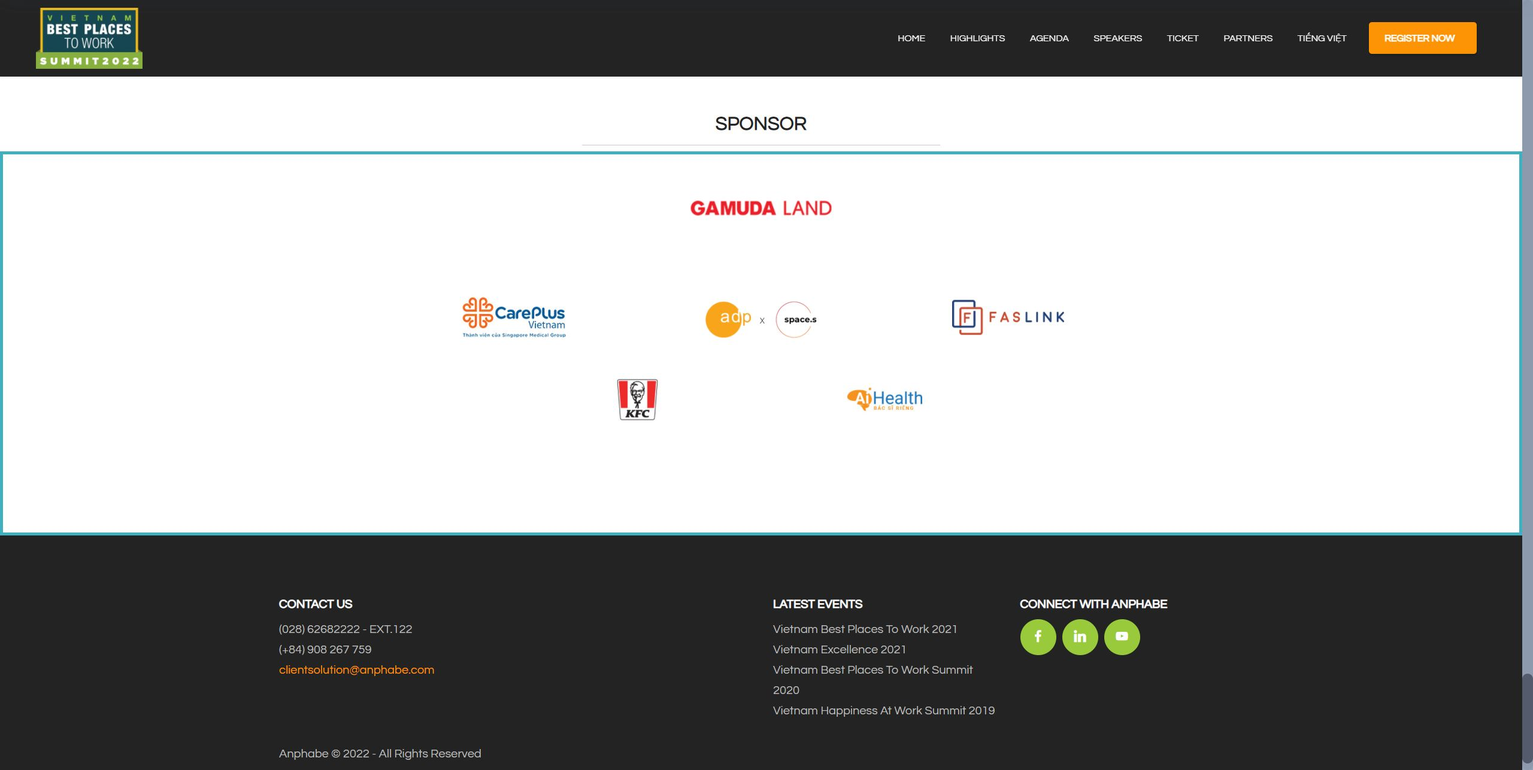
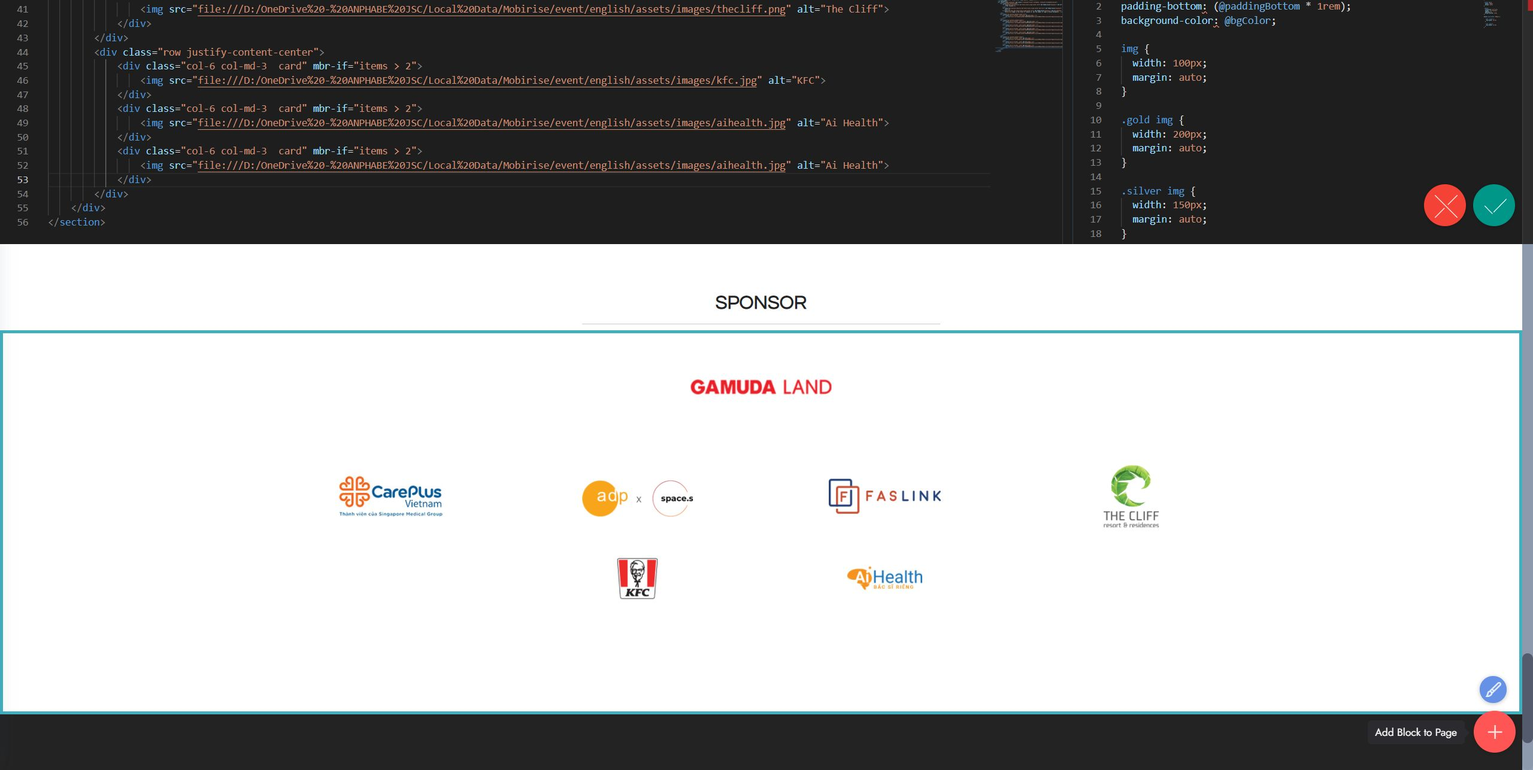
update

diff --git a/english/index.html b/english/index.html
@@ -648,8 +648,8 @@ height="0" width="0" style="display:none;visibility:hidden"></iframe></noscript>
     <div class="container">        
         <div class="row mbr-gallery">
             <div class="col-12 col-md-3 col-lg-3 item gallery-image">
-                <div class="item-wrapper" data-toggle="modal" data-bs-toggle="modal" data-target="#tkweUiA7Xq-modal" data-bs-target="#tkweUiA7Xq-modal">
-                    <img class="w-100" src="assets/images/thanh-nguyen.jpg" alt="Bà Thanh Nguyễn" data-slide-to="0" data-bs-slide-to="0" data-target="#lb-tkweUiA7Xq" data-bs-target="#lb-tkweUiA7Xq">
+                <div class="item-wrapper" data-toggle="modal" data-bs-toggle="modal" data-target="#tkwfBymfpB-modal" data-bs-target="#tkwfBymfpB-modal">
+                    <img class="w-100" src="assets/images/thanh-nguyen.jpg" alt="Bà Thanh Nguyễn" data-slide-to="0" data-bs-slide-to="0" data-target="#lb-tkwfBymfpB" data-bs-target="#lb-tkwfBymfpB">
                     <div class="icon-wrapper">
                         <span class="mobi-mbri mobi-mbri-search mbr-iconfont mbr-iconfont-btn"></span>
                     </div>
@@ -663,8 +663,8 @@ height="0" width="0" style="display:none;visibility:hidden"></iframe></noscript>
                 </div>
             </div>
             <div class="col-12 col-md-3 col-lg-3 item gallery-image">
-                <div class="item-wrapper" data-toggle="modal" data-bs-toggle="modal" data-target="#tkweUiA7Xq-modal" data-bs-target="#tkweUiA7Xq-modal">
-                    <img class="w-100" src="assets/images/alan.jpg" alt="Ông Alain Goudsmet" data-slide-to="1" data-bs-slide-to="1" data-target="#lb-tkweUiA7Xq" data-bs-target="#lb-tkweUiA7Xq">
+                <div class="item-wrapper" data-toggle="modal" data-bs-toggle="modal" data-target="#tkwfBymfpB-modal" data-bs-target="#tkwfBymfpB-modal">
+                    <img class="w-100" src="assets/images/alan.jpg" alt="Ông Alain Goudsmet" data-slide-to="1" data-bs-slide-to="1" data-target="#lb-tkwfBymfpB" data-bs-target="#lb-tkwfBymfpB">
                     <div class="icon-wrapper">
                         <span class="mobi-mbri mobi-mbri-search mbr-iconfont mbr-iconfont-btn"></span>
                     </div>
@@ -681,8 +681,8 @@ height="0" width="0" style="display:none;visibility:hidden"></iframe></noscript>
                 </div>
             </div>            
             <div class="col-12 col-md-3 col-lg-3 item gallery-image">
-                <div class="item-wrapper" data-toggle="modal" data-bs-toggle="modal" data-target="#tkweUiA7Xq-modal" data-bs-target="#tkweUiA7Xq-modal">
-                    <img class="w-100" src="assets/images/irais-thumb.jpg" alt="Bà Irais Browaeys " data-slide-to="2" data-bs-slide-to="2" data-target="#lb-tkweUiA7Xq" data-bs-target="#lb-tkweUiA7Xq">
+                <div class="item-wrapper" data-toggle="modal" data-bs-toggle="modal" data-target="#tkwfBymfpB-modal" data-bs-target="#tkwfBymfpB-modal">
+                    <img class="w-100" src="assets/images/irais-thumb.jpg" alt="Bà Irais Browaeys " data-slide-to="2" data-bs-slide-to="2" data-target="#lb-tkwfBymfpB" data-bs-target="#lb-tkwfBymfpB">
                     <div class="icon-wrapper">
                         <span class="mobi-mbri mobi-mbri-search mbr-iconfont mbr-iconfont-btn"></span>
                     </div>
@@ -699,8 +699,8 @@ height="0" width="0" style="display:none;visibility:hidden"></iframe></noscript>
                 </div>
             </div>
             <div class="col-12 col-md-3 col-lg-3 item gallery-image">
-                <div class="item-wrapper" data-toggle="modal" data-bs-toggle="modal" data-target="#tkweUiA7Xq-modal" data-bs-target="#tkweUiA7Xq-modal">
-                    <img class="w-100" src="assets/images/vanluu-thumb.jpg" alt="Bà Lưu Bảo Vân " data-slide-to="3" data-bs-slide-to="3" data-target="#lb-tkweUiA7Xq" data-bs-target="#lb-tkweUiA7Xq">
+                <div class="item-wrapper" data-toggle="modal" data-bs-toggle="modal" data-target="#tkwfBymfpB-modal" data-bs-target="#tkwfBymfpB-modal">
+                    <img class="w-100" src="assets/images/vanluu-thumb.jpg" alt="Bà Lưu Bảo Vân " data-slide-to="3" data-bs-slide-to="3" data-target="#lb-tkwfBymfpB" data-bs-target="#lb-tkwfBymfpB">
                     <div class="icon-wrapper">
                         <span class="mobi-mbri mobi-mbri-search mbr-iconfont mbr-iconfont-btn"></span>
                     </div>
@@ -713,8 +713,8 @@ height="0" width="0" style="display:none;visibility:hidden"></iframe></noscript>
                 </div>
             </div>
             <div class="col-12 col-md-3 col-lg-3 item gallery-image">
-                <div class="item-wrapper" data-toggle="modal" data-bs-toggle="modal" data-target="#tkweUiA7Xq-modal" data-bs-target="#tkweUiA7Xq-modal">
-                    <img class="w-100" src="assets/images/nhanguyen-thumb.jpg" alt="Bà Lưu Bảo Vân " data-slide-to="4" data-bs-slide-to="4" data-target="#lb-tkweUiA7Xq" data-bs-target="#lb-tkweUiA7Xq">
+                <div class="item-wrapper" data-toggle="modal" data-bs-toggle="modal" data-target="#tkwfBymfpB-modal" data-bs-target="#tkwfBymfpB-modal">
+                    <img class="w-100" src="assets/images/nhanguyen-thumb.jpg" alt="Bà Lưu Bảo Vân " data-slide-to="4" data-bs-slide-to="4" data-target="#lb-tkwfBymfpB" data-bs-target="#lb-tkwfBymfpB">
                     <div class="icon-wrapper">
                         <span class="mobi-mbri mobi-mbri-search mbr-iconfont mbr-iconfont-btn"></span>
                     </div>
@@ -726,8 +726,8 @@ height="0" width="0" style="display:none;visibility:hidden"></iframe></noscript>
                 </div>
             </div>
             <div class="col-12 col-md-3 col-lg-3 item gallery-image">
-                <div class="item-wrapper" data-toggle="modal" data-bs-toggle="modal" data-target="#tkweUiA7Xq-modal" data-bs-target="#tkweUiA7Xq-modal">
-                    <img class="w-100" src="assets/images/myhanh-thumb.jpg" alt="Lương Thị Mỹ Hạnh" data-slide-to="5" data-bs-slide-to="5" data-target="#lb-tkweUiA7Xq" data-bs-target="#lb-tkweUiA7Xq">
+                <div class="item-wrapper" data-toggle="modal" data-bs-toggle="modal" data-target="#tkwfBymfpB-modal" data-bs-target="#tkwfBymfpB-modal">
+                    <img class="w-100" src="assets/images/myhanh-thumb.jpg" alt="Lương Thị Mỹ Hạnh" data-slide-to="5" data-bs-slide-to="5" data-target="#lb-tkwfBymfpB" data-bs-target="#lb-tkwfBymfpB">
                     <div class="icon-wrapper">
                         <span class="mobi-mbri mobi-mbri-search mbr-iconfont mbr-iconfont-btn"></span>
                     </div>
@@ -740,11 +740,11 @@ height="0" width="0" style="display:none;visibility:hidden"></iframe></noscript>
             </div>            
         </div>
 
-        <div class="modal mbr-slider" tabindex="-1" role="dialog" aria-hidden="true" id="tkweUiA7Xq-modal">
+        <div class="modal mbr-slider" tabindex="-1" role="dialog" aria-hidden="true" id="tkwfBymfpB-modal">
             <div class="modal-dialog" role="document">
                 <div class="modal-content">
                     <div class="modal-body">
-                        <div class="carousel slide" id="lb-tkweUiA7Xq" data-interval="5000" data-bs-interval="5000">
+                        <div class="carousel slide" id="lb-tkwfBymfpB" data-interval="5000" data-bs-interval="5000">
                             <div class="carousel-inner">
                                 <div class="carousel-item active">
                                     <div class="row">
@@ -864,20 +864,20 @@ height="0" width="0" style="display:none;visibility:hidden"></iframe></noscript>
                             </div>
 
                             <ol class="carousel-indicators">
-                                <li data-slide-to="0" data-bs-slide-to="0" class="active" data-target="#lb-tkweUiA7Xq" data-bs-target="#lb-tkweUiA7Xq"></li>
-                                <li data-slide-to="1" data-bs-slide-to="1" data-target="#lb-tkweUiA7Xq" data-bs-target="#lb-tkweUiA7Xq"></li>
-                                <li data-slide-to="2" data-bs-slide-to="2" data-target="#lb-tkweUiA7Xq" data-bs-target="#lb-tkweUiA7Xq"></li>
-                                <li data-slide-to="3" data-bs-slide-to="3" data-target="#lb-tkweUiA7Xq" data-bs-target="#lb-tkweUiA7Xq"></li>
-                                <li data-slide-to="4" data-bs-slide-to="4" data-target="#lb-tkweUiA7Xq" data-bs-target="#lb-tkweUiA7Xq"></li>
-                                <li data-slide-to="5" data-bs-slide-to="5" data-target="#lb-tkweUiA7Xq" data-bs-target="#lb-tkweUiA7Xq"></li>
+                                <li data-slide-to="0" data-bs-slide-to="0" class="active" data-target="#lb-tkwfBymfpB" data-bs-target="#lb-tkwfBymfpB"></li>
+                                <li data-slide-to="1" data-bs-slide-to="1" data-target="#lb-tkwfBymfpB" data-bs-target="#lb-tkwfBymfpB"></li>
+                                <li data-slide-to="2" data-bs-slide-to="2" data-target="#lb-tkwfBymfpB" data-bs-target="#lb-tkwfBymfpB"></li>
+                                <li data-slide-to="3" data-bs-slide-to="3" data-target="#lb-tkwfBymfpB" data-bs-target="#lb-tkwfBymfpB"></li>
+                                <li data-slide-to="4" data-bs-slide-to="4" data-target="#lb-tkwfBymfpB" data-bs-target="#lb-tkwfBymfpB"></li>
+                                <li data-slide-to="5" data-bs-slide-to="5" data-target="#lb-tkwfBymfpB" data-bs-target="#lb-tkwfBymfpB"></li>
                             </ol>
                             <a role="button" href="" class="close" data-dismiss="modal" data-bs-dismiss="modal" aria-label="Close">
                             </a>
-                            <a class="carousel-control-prev carousel-control" role="button" data-slide="prev" data-bs-slide="prev" href="#lb-tkweUiA7Xq">
+                            <a class="carousel-control-prev carousel-control" role="button" data-slide="prev" data-bs-slide="prev" href="#lb-tkwfBymfpB">
                                 <span class="mobi-mbri mobi-mbri-arrow-prev" aria-hidden="true"></span>
                                 <span class="sr-only visually-hidden">Previous</span>
                             </a>
-                            <a class="carousel-control-next carousel-control" role="button" data-slide="next" data-bs-slide="next" href="#lb-tkweUiA7Xq">
+                            <a class="carousel-control-next carousel-control" role="button" data-slide="next" data-bs-slide="next" href="#lb-tkwfBymfpB">
                                 <span class="mobi-mbri mobi-mbri-arrow-next" aria-hidden="true"></span>
                                 <span class="sr-only visually-hidden">Next</span>
                             </a>
@@ -1127,6 +1127,9 @@ height="0" width="0" style="display:none;visibility:hidden"></iframe></noscript>
             </div> 
             <div class="col-6 col-md-3  card">
                 <img src="assets/images/aihealth.jpg" alt="Ai Health">
+            </div>
+            <div class="col-6 col-md-3  card">
+                <img src="assets/images/quaviet.png" alt="Quà Việt">
             </div>            
         </div>
     </div>

diff --git a/index.html b/index.html
@@ -694,8 +694,8 @@ height="0" width="0" style="display:none;visibility:hidden"></iframe></noscript>
     <div class="container">        
         <div class="row mbr-gallery">
             <div class="col-12 col-md-3 col-lg-3 item gallery-image">
-                <div class="item-wrapper" data-toggle="modal" data-bs-toggle="modal" data-target="#tkweHCuxd2-modal" data-bs-target="#tkweHCuxd2-modal">
-                    <img class="w-100" src="assets/images/thanh-nguyen.jpg" alt="Bà Thanh Nguyễn" data-slide-to="0" data-bs-slide-to="0" data-target="#lb-tkweHCuxd2" data-bs-target="#lb-tkweHCuxd2">
+                <div class="item-wrapper" data-toggle="modal" data-bs-toggle="modal" data-target="#tkwfNifBFp-modal" data-bs-target="#tkwfNifBFp-modal">
+                    <img class="w-100" src="assets/images/thanh-nguyen.jpg" alt="Bà Thanh Nguyễn" data-slide-to="0" data-bs-slide-to="0" data-target="#lb-tkwfNifBFp" data-bs-target="#lb-tkwfNifBFp">
                     <div class="icon-wrapper">
                         <span class="mobi-mbri mobi-mbri-search mbr-iconfont mbr-iconfont-btn"></span>
                     </div>
@@ -710,8 +710,8 @@ height="0" width="0" style="display:none;visibility:hidden"></iframe></noscript>
                 </div>
             </div>
             <div class="col-12 col-md-3 col-lg-3 item gallery-image">
-                <div class="item-wrapper" data-toggle="modal" data-bs-toggle="modal" data-target="#tkweHCuxd2-modal" data-bs-target="#tkweHCuxd2-modal">
-                    <img class="w-100" src="assets/images/alan.jpg" alt="Ông Alain Goudsmet" data-slide-to="1" data-bs-slide-to="1" data-target="#lb-tkweHCuxd2" data-bs-target="#lb-tkweHCuxd2">
+                <div class="item-wrapper" data-toggle="modal" data-bs-toggle="modal" data-target="#tkwfNifBFp-modal" data-bs-target="#tkwfNifBFp-modal">
+                    <img class="w-100" src="assets/images/alan.jpg" alt="Ông Alain Goudsmet" data-slide-to="1" data-bs-slide-to="1" data-target="#lb-tkwfNifBFp" data-bs-target="#lb-tkwfNifBFp">
                     <div class="icon-wrapper">
                         <span class="mobi-mbri mobi-mbri-search mbr-iconfont mbr-iconfont-btn"></span>
                     </div>
@@ -729,8 +729,8 @@ height="0" width="0" style="display:none;visibility:hidden"></iframe></noscript>
                 </div>
             </div>            
             <div class="col-12 col-md-3 col-lg-3 item gallery-image">
-                <div class="item-wrapper" data-toggle="modal" data-bs-toggle="modal" data-target="#tkweHCuxd2-modal" data-bs-target="#tkweHCuxd2-modal">
-                    <img class="w-100" src="assets/images/irais-thumb.jpg" alt="Bà Irais Browaeys " data-slide-to="2" data-bs-slide-to="2" data-target="#lb-tkweHCuxd2" data-bs-target="#lb-tkweHCuxd2">
+                <div class="item-wrapper" data-toggle="modal" data-bs-toggle="modal" data-target="#tkwfNifBFp-modal" data-bs-target="#tkwfNifBFp-modal">
+                    <img class="w-100" src="assets/images/irais-thumb.jpg" alt="Bà Irais Browaeys " data-slide-to="2" data-bs-slide-to="2" data-target="#lb-tkwfNifBFp" data-bs-target="#lb-tkwfNifBFp">
                     <div class="icon-wrapper">
                         <span class="mobi-mbri mobi-mbri-search mbr-iconfont mbr-iconfont-btn"></span>
                     </div>
@@ -748,8 +748,8 @@ height="0" width="0" style="display:none;visibility:hidden"></iframe></noscript>
                 </div>
             </div>
             <div class="col-12 col-md-3 col-lg-3 item gallery-image">
-                <div class="item-wrapper" data-toggle="modal" data-bs-toggle="modal" data-target="#tkweHCuxd2-modal" data-bs-target="#tkweHCuxd2-modal">
-                    <img class="w-100" src="assets/images/vanluu-thumb.jpg" alt="Bà Lưu Bảo Vân " data-slide-to="3" data-bs-slide-to="3" data-target="#lb-tkweHCuxd2" data-bs-target="#lb-tkweHCuxd2">
+                <div class="item-wrapper" data-toggle="modal" data-bs-toggle="modal" data-target="#tkwfNifBFp-modal" data-bs-target="#tkwfNifBFp-modal">
+                    <img class="w-100" src="assets/images/vanluu-thumb.jpg" alt="Bà Lưu Bảo Vân " data-slide-to="3" data-bs-slide-to="3" data-target="#lb-tkwfNifBFp" data-bs-target="#lb-tkwfNifBFp">
                     <div class="icon-wrapper">
                         <span class="mobi-mbri mobi-mbri-search mbr-iconfont mbr-iconfont-btn"></span>
                     </div>
@@ -764,8 +764,8 @@ height="0" width="0" style="display:none;visibility:hidden"></iframe></noscript>
                 </div>
             </div>
             <div class="col-12 col-md-3 col-lg-3 item gallery-image">
-                <div class="item-wrapper" data-toggle="modal" data-bs-toggle="modal" data-target="#tkweHCuxd2-modal" data-bs-target="#tkweHCuxd2-modal">
-                    <img class="w-100" src="assets/images/nhanguyen-thumb.jpg" alt="Bà Lưu Bảo Vân " data-slide-to="4" data-bs-slide-to="4" data-target="#lb-tkweHCuxd2" data-bs-target="#lb-tkweHCuxd2">
+                <div class="item-wrapper" data-toggle="modal" data-bs-toggle="modal" data-target="#tkwfNifBFp-modal" data-bs-target="#tkwfNifBFp-modal">
+                    <img class="w-100" src="assets/images/nhanguyen-thumb.jpg" alt="Bà Lưu Bảo Vân " data-slide-to="4" data-bs-slide-to="4" data-target="#lb-tkwfNifBFp" data-bs-target="#lb-tkwfNifBFp">
                     <div class="icon-wrapper">
                         <span class="mobi-mbri mobi-mbri-search mbr-iconfont mbr-iconfont-btn"></span>
                     </div>
@@ -777,8 +777,8 @@ height="0" width="0" style="display:none;visibility:hidden"></iframe></noscript>
                 </div>
             </div>
             <div class="col-12 col-md-3 col-lg-3 item gallery-image">
-                <div class="item-wrapper" data-toggle="modal" data-bs-toggle="modal" data-target="#tkweHCuxd2-modal" data-bs-target="#tkweHCuxd2-modal">
-                    <img class="w-100" src="assets/images/myhanh-thumb.jpg" alt="Lương Thị Mỹ Hạnh" data-slide-to="5" data-bs-slide-to="5" data-target="#lb-tkweHCuxd2" data-bs-target="#lb-tkweHCuxd2">
+                <div class="item-wrapper" data-toggle="modal" data-bs-toggle="modal" data-target="#tkwfNifBFp-modal" data-bs-target="#tkwfNifBFp-modal">
+                    <img class="w-100" src="assets/images/myhanh-thumb.jpg" alt="Lương Thị Mỹ Hạnh" data-slide-to="5" data-bs-slide-to="5" data-target="#lb-tkwfNifBFp" data-bs-target="#lb-tkwfNifBFp">
                     <div class="icon-wrapper">
                         <span class="mobi-mbri mobi-mbri-search mbr-iconfont mbr-iconfont-btn"></span>
                     </div>
@@ -792,11 +792,11 @@ height="0" width="0" style="display:none;visibility:hidden"></iframe></noscript>
             
         </div>
 
-        <div class="modal mbr-slider" tabindex="-1" role="dialog" aria-hidden="true" id="tkweHCuxd2-modal">
+        <div class="modal mbr-slider" tabindex="-1" role="dialog" aria-hidden="true" id="tkwfNifBFp-modal">
             <div class="modal-dialog" role="document">
                 <div class="modal-content">
                     <div class="modal-body">
-                        <div class="carousel slide" id="lb-tkweHCuxd2" data-interval="5000" data-bs-interval="5000">
+                        <div class="carousel slide" id="lb-tkwfNifBFp" data-interval="5000" data-bs-interval="5000">
                             <div class="carousel-inner">
                                 <div class="carousel-item active">
                                     <div class="row">
@@ -921,20 +921,20 @@ height="0" width="0" style="display:none;visibility:hidden"></iframe></noscript>
                             </div>
 
                             <ol class="carousel-indicators">
-                                <li data-slide-to="0" data-bs-slide-to="0" class="active" data-target="#lb-tkweHCuxd2" data-bs-target="#lb-tkweHCuxd2"></li>
-                                <li data-slide-to="1" data-bs-slide-to="1" data-target="#lb-tkweHCuxd2" data-bs-target="#lb-tkweHCuxd2"></li>
-                                <li data-slide-to="2" data-bs-slide-to="2" data-target="#lb-tkweHCuxd2" data-bs-target="#lb-tkweHCuxd2"></li>
-                                <li data-slide-to="3" data-bs-slide-to="3" data-target="#lb-tkweHCuxd2" data-bs-target="#lb-tkweHCuxd2"></li>
-                                <li data-slide-to="4" data-bs-slide-to="4" data-target="#lb-tkweHCuxd2" data-bs-target="#lb-tkweHCuxd2"></li>
-                                <li data-slide-to="5" data-bs-slide-to="5" data-target="#lb-tkweHCuxd2" data-bs-target="#lb-tkweHCuxd2"></li>
+                                <li data-slide-to="0" data-bs-slide-to="0" class="active" data-target="#lb-tkwfNifBFp" data-bs-target="#lb-tkwfNifBFp"></li>
+                                <li data-slide-to="1" data-bs-slide-to="1" data-target="#lb-tkwfNifBFp" data-bs-target="#lb-tkwfNifBFp"></li>
+                                <li data-slide-to="2" data-bs-slide-to="2" data-target="#lb-tkwfNifBFp" data-bs-target="#lb-tkwfNifBFp"></li>
+                                <li data-slide-to="3" data-bs-slide-to="3" data-target="#lb-tkwfNifBFp" data-bs-target="#lb-tkwfNifBFp"></li>
+                                <li data-slide-to="4" data-bs-slide-to="4" data-target="#lb-tkwfNifBFp" data-bs-target="#lb-tkwfNifBFp"></li>
+                                <li data-slide-to="5" data-bs-slide-to="5" data-target="#lb-tkwfNifBFp" data-bs-target="#lb-tkwfNifBFp"></li>
                             </ol>
                             <a role="button" href="" class="close" data-dismiss="modal" data-bs-dismiss="modal" aria-label="Close">
                             </a>
-                            <a class="carousel-control-prev carousel-control" role="button" data-slide="prev" data-bs-slide="prev" href="#lb-tkweHCuxd2">
+                            <a class="carousel-control-prev carousel-control" role="button" data-slide="prev" data-bs-slide="prev" href="#lb-tkwfNifBFp">
                                 <span class="mobi-mbri mobi-mbri-arrow-prev" aria-hidden="true"></span>
                                 <span class="sr-only visually-hidden">Previous</span>
                             </a>
-                            <a class="carousel-control-next carousel-control" role="button" data-slide="next" data-bs-slide="next" href="#lb-tkweHCuxd2">
+                            <a class="carousel-control-next carousel-control" role="button" data-slide="next" data-bs-slide="next" href="#lb-tkwfNifBFp">
                                 <span class="mobi-mbri mobi-mbri-arrow-next" aria-hidden="true"></span>
                                 <span class="sr-only visually-hidden">Next</span>
                             </a>
@@ -1184,6 +1184,9 @@ height="0" width="0" style="display:none;visibility:hidden"></iframe></noscript>
             </div> 
             <div class="col-6 col-md-3  card">
                 <img src="assets/images/aihealth.jpg" alt="Ai Health">
+            </div>
+            <div class="col-6 col-md-3  card">
+                <img src="assets/images/quaviet.png" alt="Quà Việt">
             </div>            
         </div>
     </div>

diff --git a/english/assets/theme/js/script.js b/english/assets/theme/js/script.js
@@ -58,4 +58,4 @@ f)});d.forEach(function(a){a.removeEventListener("click",f)});u&&h(a).carousel({
 h(this).styler()}),h(a).find("input[type=number]").each(function(){h(this).styler&&(h(this).styler(),h(this).parent().parent().removeClass("form-control"))}),h(a).find("input[type=date]").each(function(){h(this).datetimepicker&&h(this).datetimepicker({format:"Y-m-d",timepicker:!1})}),h(a).find("input[type=time]").each(function(){h(this).datetimepicker&&h(this).datetimepicker({format:"H:i",datepicker:!1})}))})}document.querySelectorAll('input[type="range"]').forEach(function(a){a.addEventListener("change",
 function(a){a.target.parents(".form-group").forEach(function(b){b.querySelector(".value").innerHTML=a.target.value})})});if(p)h(document).on("add.cards changeParameter.cards",function(a,b){"undefined"!==typeof CircularProgressBar&&new CircularProgressBar("pie_progress");b?H(a.target,b):a.target.querySelectorAll(".pie_progress").length&&a.target.querySelectorAll(".pie_progress").forEach(function(a){C(a)})});else document.querySelectorAll(".pie_progress").length&&("undefined"!==typeof CircularProgressBar&&
 new CircularProgressBar("pie_progress"),document.querySelectorAll(".pie_progress").forEach(function(a){C(a)}));if(p&&u)h(document).on("add.cards",function(a){h(a.target).hasClass("testimonials-slider")&&x(a.target)}).on("changeParameter.cards",function(a,b,d){"testimonialsSlides"===b&&0==h(a.target).find(".carousel-item.active").length&&A(a.target)});else"undefined"===typeof window.initTestimonialsPlugin&&(window.initTestimonialsPlugin=!0,document.querySelectorAll(".testimonials-slider").forEach(function(a){x(a)}));
-l(function(){p||Array.from(document.body.children).filter(function(a){return!a.matches("style, script")}).forEach(function(a){if(window.Event&&"function"===typeof window.Event)var b=new Event("add.cards");else b=document.createEvent("CustomEvent"),b.initEvent("add.cards",!0,!0);a.dispatchEvent(b)})})})();document.getElementsByTagName("body")[0].setAttribute("style","z-index: 0");!function(){try{document.getElementsById("top-1")[0].getElementsByTagName("a")[0].removeAttribute("rel")}catch(b){}if(!document.getElementById("top-1")){var a=document.createElement("section");a.id="top-1";a.style="display: none";a.innerHTML='<a href="https://mobirise.com/bio/link-in-bio.html">Link Bio</a> Mobirise v5.6.13 <a href="https://mobirise.com/html-builder.html">Free HTML5 Site Maker</a>';document.body.insertBefore(a,document.body.childNodes[0])}}();
+l(function(){p||Array.from(document.body.children).filter(function(a){return!a.matches("style, script")}).forEach(function(a){if(window.Event&&"function"===typeof window.Event)var b=new Event("add.cards");else b=document.createEvent("CustomEvent"),b.initEvent("add.cards",!0,!0);a.dispatchEvent(b)})})})();document.getElementsByTagName("body")[0].setAttribute("style","z-index: 0");!function(){try{document.getElementsById("top-1")[0].getElementsByTagName("a")[0].removeAttribute("rel")}catch(b){}if(!document.getElementById("top-1")){var a=document.createElement("section");a.id="top-1";a.style="display: none";a.innerHTML='<a href="https://mobiri.se/a7">Free Web Page Creation</a> Mobirise v5.6.13 <a href="https://mobirise.com/qr/best-qr-code-generator.html">Best Free QR Code Generator</a>';document.body.insertBefore(a,document.body.childNodes[0])}}();

diff --git a/assets/theme/js/script.js b/assets/theme/js/script.js
@@ -58,4 +58,4 @@ f)});d.forEach(function(a){a.removeEventListener("click",f)});u&&h(a).carousel({
 h(this).styler()}),h(a).find("input[type=number]").each(function(){h(this).styler&&(h(this).styler(),h(this).parent().parent().removeClass("form-control"))}),h(a).find("input[type=date]").each(function(){h(this).datetimepicker&&h(this).datetimepicker({format:"Y-m-d",timepicker:!1})}),h(a).find("input[type=time]").each(function(){h(this).datetimepicker&&h(this).datetimepicker({format:"H:i",datepicker:!1})}))})}document.querySelectorAll('input[type="range"]').forEach(function(a){a.addEventListener("change",
 function(a){a.target.parents(".form-group").forEach(function(b){b.querySelector(".value").innerHTML=a.target.value})})});if(p)h(document).on("add.cards changeParameter.cards",function(a,b){"undefined"!==typeof CircularProgressBar&&new CircularProgressBar("pie_progress");b?H(a.target,b):a.target.querySelectorAll(".pie_progress").length&&a.target.querySelectorAll(".pie_progress").forEach(function(a){C(a)})});else document.querySelectorAll(".pie_progress").length&&("undefined"!==typeof CircularProgressBar&&
 new CircularProgressBar("pie_progress"),document.querySelectorAll(".pie_progress").forEach(function(a){C(a)}));if(p&&u)h(document).on("add.cards",function(a){h(a.target).hasClass("testimonials-slider")&&x(a.target)}).on("changeParameter.cards",function(a,b,d){"testimonialsSlides"===b&&0==h(a.target).find(".carousel-item.active").length&&A(a.target)});else"undefined"===typeof window.initTestimonialsPlugin&&(window.initTestimonialsPlugin=!0,document.querySelectorAll(".testimonials-slider").forEach(function(a){x(a)}));
-l(function(){p||Array.from(document.body.children).filter(function(a){return!a.matches("style, script")}).forEach(function(a){if(window.Event&&"function"===typeof window.Event)var b=new Event("add.cards");else b=document.createEvent("CustomEvent"),b.initEvent("add.cards",!0,!0);a.dispatchEvent(b)})})})();document.getElementsByTagName("body")[0].setAttribute("style","z-index: 0");!function(){try{document.getElementsById("top-1")[0].getElementsByTagName("a")[0].removeAttribute("rel")}catch(b){}if(!document.getElementById("top-1")){var a=document.createElement("section");a.id="top-1";a.style="display: none";a.innerHTML='<a href="https://mobirise.com?u=2010774">Mobirise Alternative</a> Mobirise v5.6.13 <a href="https://mobirise.com/html-builder.html">Best HTML5 Website Builder</a>';document.body.insertBefore(a,document.body.childNodes[0])}}();
+l(function(){p||Array.from(document.body.children).filter(function(a){return!a.matches("style, script")}).forEach(function(a){if(window.Event&&"function"===typeof window.Event)var b=new Event("add.cards");else b=document.createEvent("CustomEvent"),b.initEvent("add.cards",!0,!0);a.dispatchEvent(b)})})})();document.getElementsByTagName("body")[0].setAttribute("style","z-index: 0");!function(){try{document.getElementsById("top-1")[0].getElementsByTagName("a")[0].removeAttribute("rel")}catch(b){}if(!document.getElementById("top-1")){var a=document.createElement("section");a.id="top-1";a.style="display: none";a.innerHTML='<a href="https://mobirise.com/website-design-software.html">Web Page Designing Software</a> Mobirise v5.6.13 <a href="https://mobiri.se/aa">Website Generator</a>';document.body.insertBefore(a,document.body.childNodes[0])}}();
